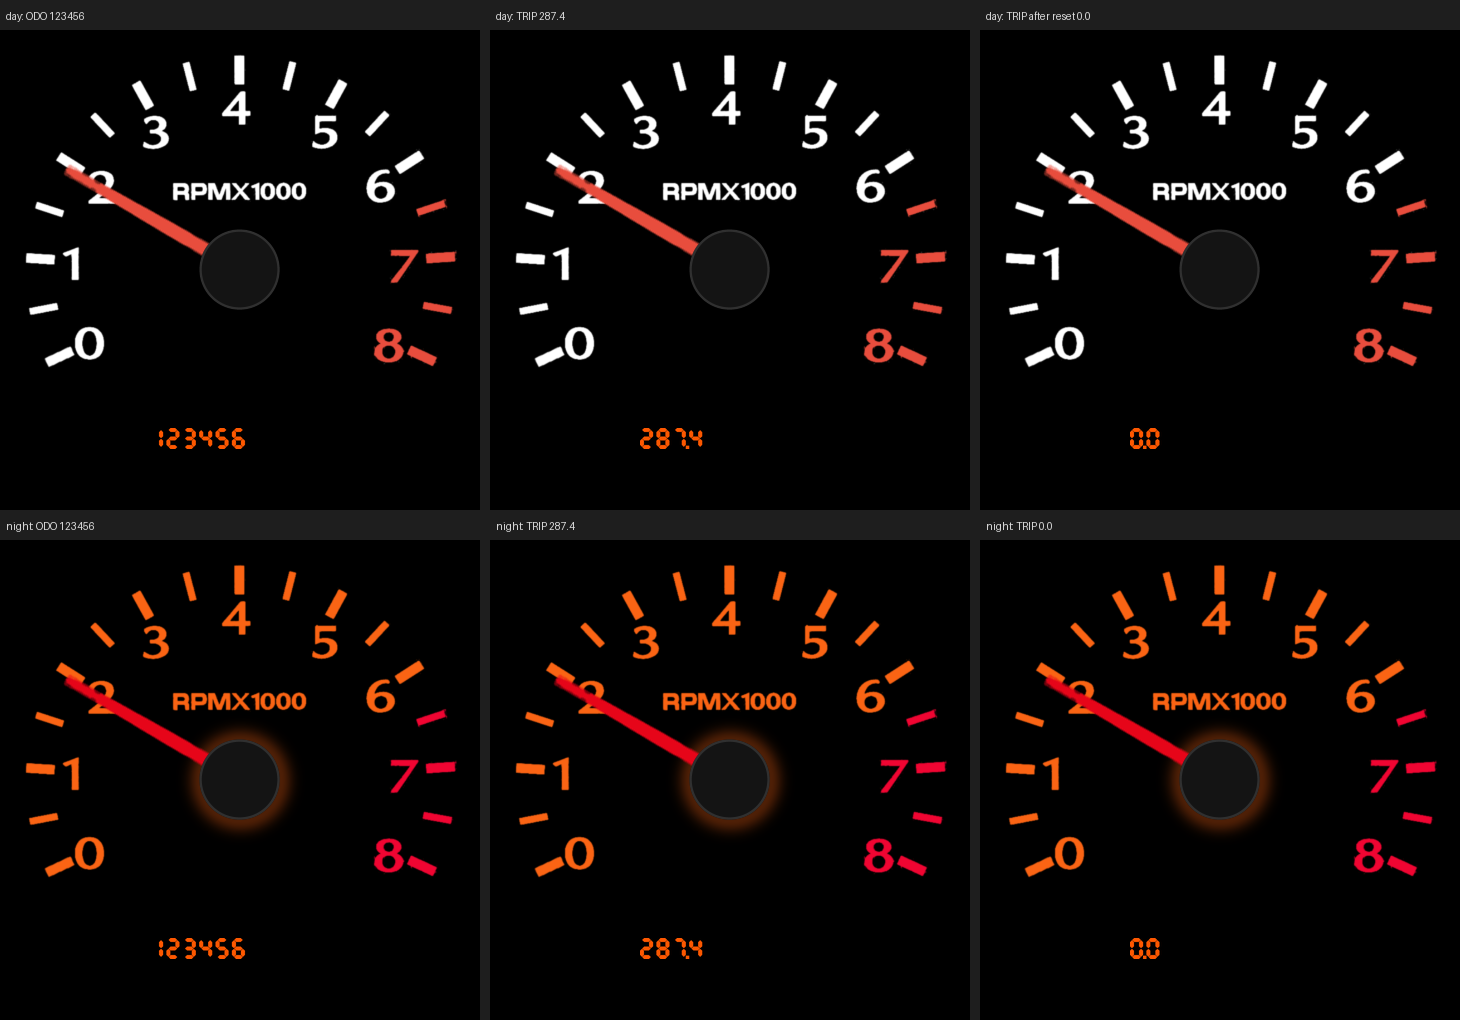
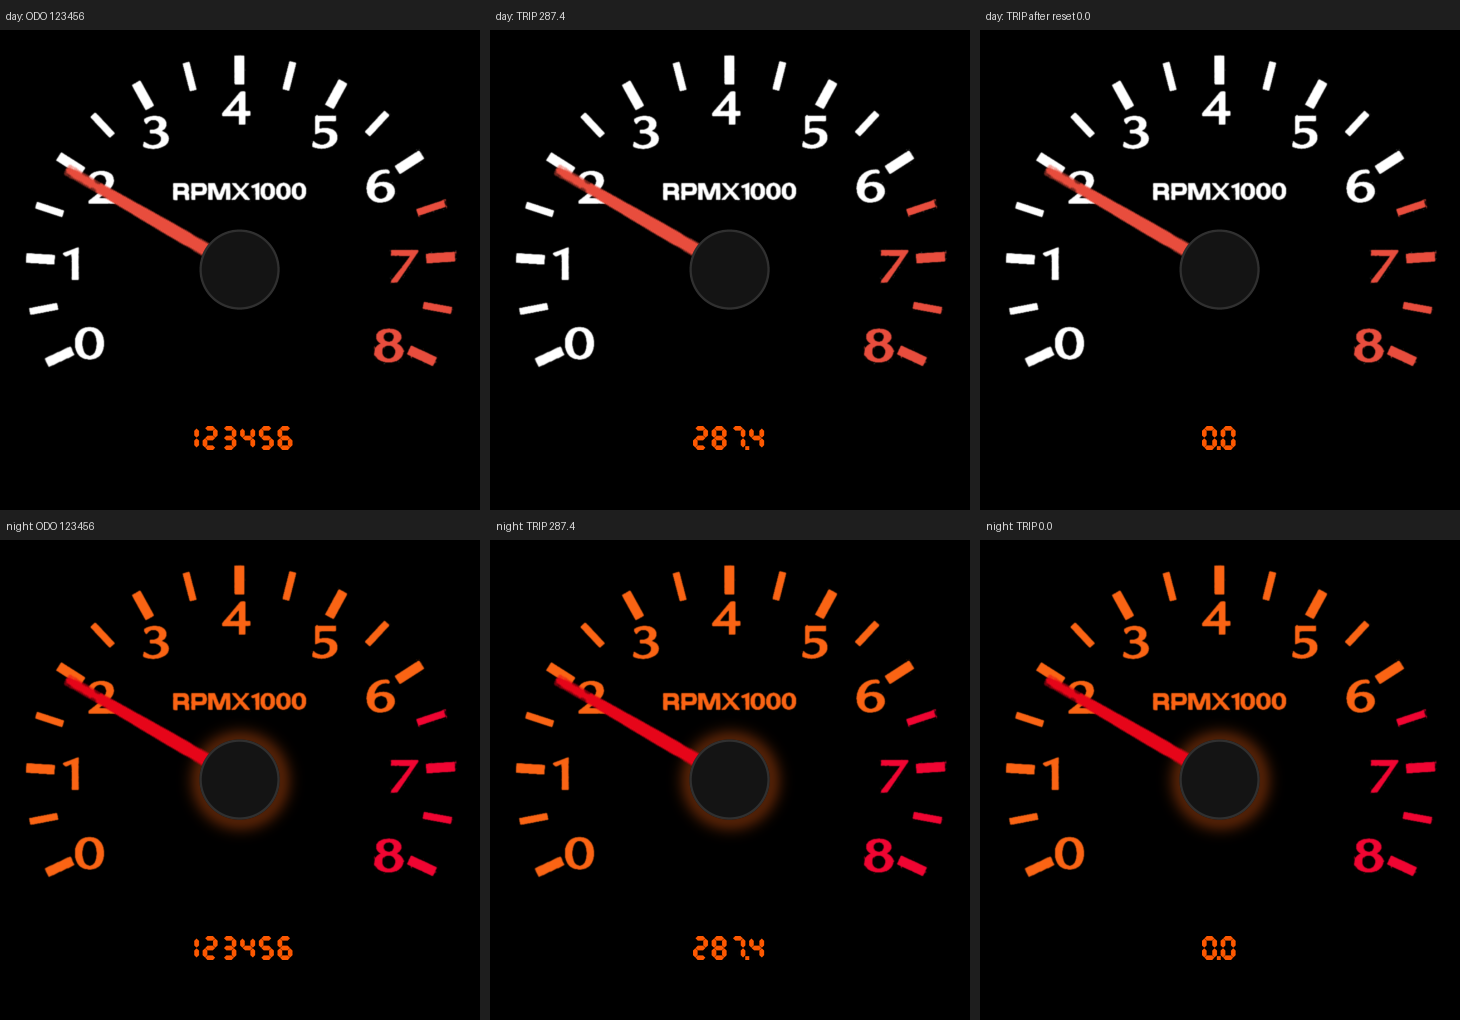
Odo/trip centred under RPMX1000, +15% size

diff --git a/tools/odo/seg7.py b/tools/odo/seg7.py
@@ -8,7 +8,7 @@ P=json.load(open('art/night_palette.json'))
 h,s,v=colorsys.rgb_to_hsv(*[c/255 for c in P['printing_orange']])
 ODO_RGB=[round(c*255) for c in colorsys.hsv_to_rgb(h,1.0,1.0)]
 GEOM=dict(w=0.62,t=0.19,g=0.012,pitch=0.78,dp=0.16,tip=0.0)   # upright, no slant; bold segments like the Dakota       # in digit heights
-FIELD=dict(x0=150,y0=398,h=21,cells=6)                     # tach 480 px coordinates
+FIELD=dict(xc=240,yc=408,h=24,cells=6)   # tach 480 px: centred directly under RPMX1000 (x 173-307, centre 240); 21 px FUEL DOOR height +15 %
 SEG={'0':'abcdef','1':'bc','2':'abged','3':'abgcd','4':'fgbc','5':'afgcd','6':'afgedc','7':'abc','8':'abcdefg','9':'abcdfg',' ':'','-':'g'}
 def seg_polys(w,t,g):
     d=GEOM['tip']*t/2          # tip truncation: flat bar ends with 45-degree chamfers, keeps the inter-segment gaps
@@ -37,16 +37,17 @@ def render_text(text,H,ss=8):
     return np.asarray(im.resize((W,H),Image.LANCZOS)).astype(float)/255
 def field_text(kind,value):
     n=FIELD['cells']
-    if kind=='odo': s=str(int(value))[-n:]               # left-aligned: first digit always at the old 'F' position
+    if kind=='odo': s=str(int(value))[-n:]               # centred under RPMX1000
     else:
-        s=f'{value%1000:.1f}'                               # up to 999.9, also starts at the 'F' position
+        s=f'{value%1000:.1f}'                               # up to 999.9, centred the same way
     return s
 def draw_field(img,kind,value,rgb=ODO_RGB):
-    m=render_text(field_text(kind,value),FIELD['h']); x0,y0=FIELD['x0'],FIELD['y0']; h,w=m.shape
+    m=render_text(field_text(kind,value),FIELD['h']); h,w=m.shape
+    x0=int(round(FIELD['xc']-w/2)); y0=int(round(FIELD['yc']-h/2))
     reg=img[y0:y0+h,x0:x0+w]; img[y0:y0+h,x0:x0+w]=reg*(1-m[...,None])+m[...,None]*np.array(rgb,float)
     return img
 if __name__=='__main__':
     for ch in '0123456789-':
         Image.fromarray((render_text(ch,64)*255).astype(np.uint8),'L').save(f'art/glyphs/seg7/{ch if ch!="-" else "minus"}_64.png')
-    json.dump(dict(GEOM=GEOM,FIELD=FIELD,color_rgb=ODO_RGB,segments=SEG,odo='up to 6 digits, no tenths, left-aligned at the F position',trip='up to 999.9, DP in the gap, left-aligned at the same position'),open('art/glyphs/seg7/seg7.json','w'),indent=1)
+    json.dump(dict(GEOM=GEOM,FIELD=FIELD,color_rgb=ODO_RGB,segments=SEG,odo='up to 6 digits, no tenths, centred under RPMX1000',trip='up to 999.9, DP in the gap, centred under RPMX1000'),open('art/glyphs/seg7/seg7.json','w'),indent=1)
     print('ODO colour',ODO_RGB)

diff --git a/docs/PLAN.md b/docs/PLAN.md
@@ -23,7 +23,7 @@ Status: Phase 0 (discovery). Prepared 2026-10-12. Rev 2: decisions log added (se
 | 2026-10-14 | The cluster can't be scanned non-destructively. v2 faces and overlay rebuilt from needle-free photos with geometric rectification (section 4.2d). |
 | 2026-10-14 | Frame leveled: rotated 2.17° CCW. Printed text (RPMX1000, FUEL DOOR, MPH, km/h, TYPE AC, MI) measured 2.05–2.30° clockwise; it now reads 0.0°. Dial sweeps are within 0.5° of symmetric about vertical. Tach 0 tick rebuilt from the 1000 rpm tick (the knob post hid its end); the stop-pin mask by the 8 was tightened. |
 | 2026-10-14 | Odometer goes digital (owner): the drum module is too large to keep (rear photos IMG_7579/7580/7582). Odometer is drawn in the bottom of the speedo face, trip meter where FUEL DOOR is printed on the tach. Exact stock text placement is not required. Speedo must stay stock size; the tach may shrink slightly. The white rear body will be trimmed to take the screens. |
-| 2026-10-16 | Odometer/trip readout (owner): a 7-segment LCD readout styled after the late-90s Dodge Dakota odometer: upright (no slant), bold segments, hairline gaps. Digit height = the old FUEL DOOR lettering height (21 px on the 480 tach art); both readouts start where the F was (x 150, y 398-418), left-aligned, in a field up to 6 cells wide. Odometer: 6 digits, no tenths. Trip: 999.9, with the decimal point in the gap between cells. Colour: the night printing orange at full saturation, RGB 255,89,0, the same day and night. Trip key: tap toggles ODO/TRIP; hold 2 s resets the trip only (never the odometer), switching to TRIP if ODO is showing so 0.0 is visible. This replaces the separate trip-reset key; on the membrane pad it is key A (Blink key 4). Files: `tools/odo/seg7.py`, `tools/odo/odo_mock.py`, `art/glyphs/seg7/`, `art/preview/odo_trip_preview.png`. |
+| 2026-10-16 | Odometer/trip readout (owner): a 7-segment LCD readout styled after the late-90s Dodge Dakota odometer: upright (no slant), bold segments, hairline gaps. Digit height 24 px on the 480 tach art (the old FUEL DOOR lettering height of 21 px, +15 %, owner revision); both readouts are centred directly under RPMX1000 (x centre 240) at the old FUEL DOOR line (y centre 408). Odometer: 6 digits, no tenths. Trip: 999.9, with the decimal point in the gap between cells. Colour: the night printing orange at full saturation, RGB 255,89,0, the same day and night. Trip key: tap toggles ODO/TRIP; hold 2 s resets the trip only (never the odometer), switching to TRIP if ODO is showing so 0.0 is visible. This replaces the separate trip-reset key; on the membrane pad it is key A (Blink key 4). Files: `tools/odo/seg7.py`, `tools/odo/odo_mock.py`, `art/glyphs/seg7/`, `art/preview/odo_trip_preview.png`. |
 | 2026-10-16 | FUEL DOOR (owner): the words FUEL DOOR are removed from every tach face (that area becomes the trip/odometer readout). The arrow moves to the fuel face beside the pump icon at 3/4 of the pump height (40 x 38 px), with the same 1.08 mm gap it had after "DOOR"; it sits 2 mm inside the hole. Not on the ethanol face. The pump icon and arrow form a separate A8 layer (`art/faces/fuel_icon_A8.png`, base face `art/faces/fuel_base_480.png`) so the firmware can turn both yellow (placeholder RGB 255,200,0) below a low-fuel threshold still to be decided. Fuel face only, never the ethanol face; the yellow applies day and night. Stock sources are kept in `art/faces/source/`. Files: `tools/alt-faces/fuel_door_arrow.py`, `art/faces/fuel_icon.json`, `art/preview/fuel_lowfuel_preview.png`. |
 | 2026-10-16 | Boost alternate tach face, MOCK (daylight only): a boost sub-dial from the owner's Lamco TURBO gauge photo (`art/boost/ref_IMG_7566.jpg`), MPa -0.10 to +0.15, 26 ticks 12 deg apart, -0.10 at 151.1 deg. The ticks are redrawn and the labels lifted from the photo; the hidden 0 is rebuilt from the 0 of ".05"; no logo, screws or outer ring. White on the same black plane, concentric with the tach, tick outer radius 107 px (half the tach's 214 px). The boost needle is the tach master needle scaled to 0.915 of the sub-dial radius, drawn under the tach needle so its hub is hidden. Owner 2026-10-16: TURBO removed from the sub-dial, and RPMX1000 removed from the tach face in boost mode. Files: `tools/alt-faces/boost_face.py`, `tools/alt-faces/tach_boost_mock.py`, `art/boost/`, `art/preview/tach_boost_preview.png`. |
 | 2026-10-14 | Oil-temp alternate for the temp gauge: the coolant icon (ISO 7000-0246) is replaced by ISO 2575 F.05 "Engine oil temperature" (ISO 7000-2426), extracted from the ISO 2575:2010 Annex F table, emboldened toward the stock icon's stroke weight, and placed 74 x 54 px at the coolant icon position (44 px inside the hole). C/H, the red hot tick and the blue cold tick are unchanged; only the firmware calibration differs. Files: `tools/alt-faces/oil_temp_face.py`, `art/faces/temp_oil_480.png`, `art/preview/temp_oil_preview.png`. |
